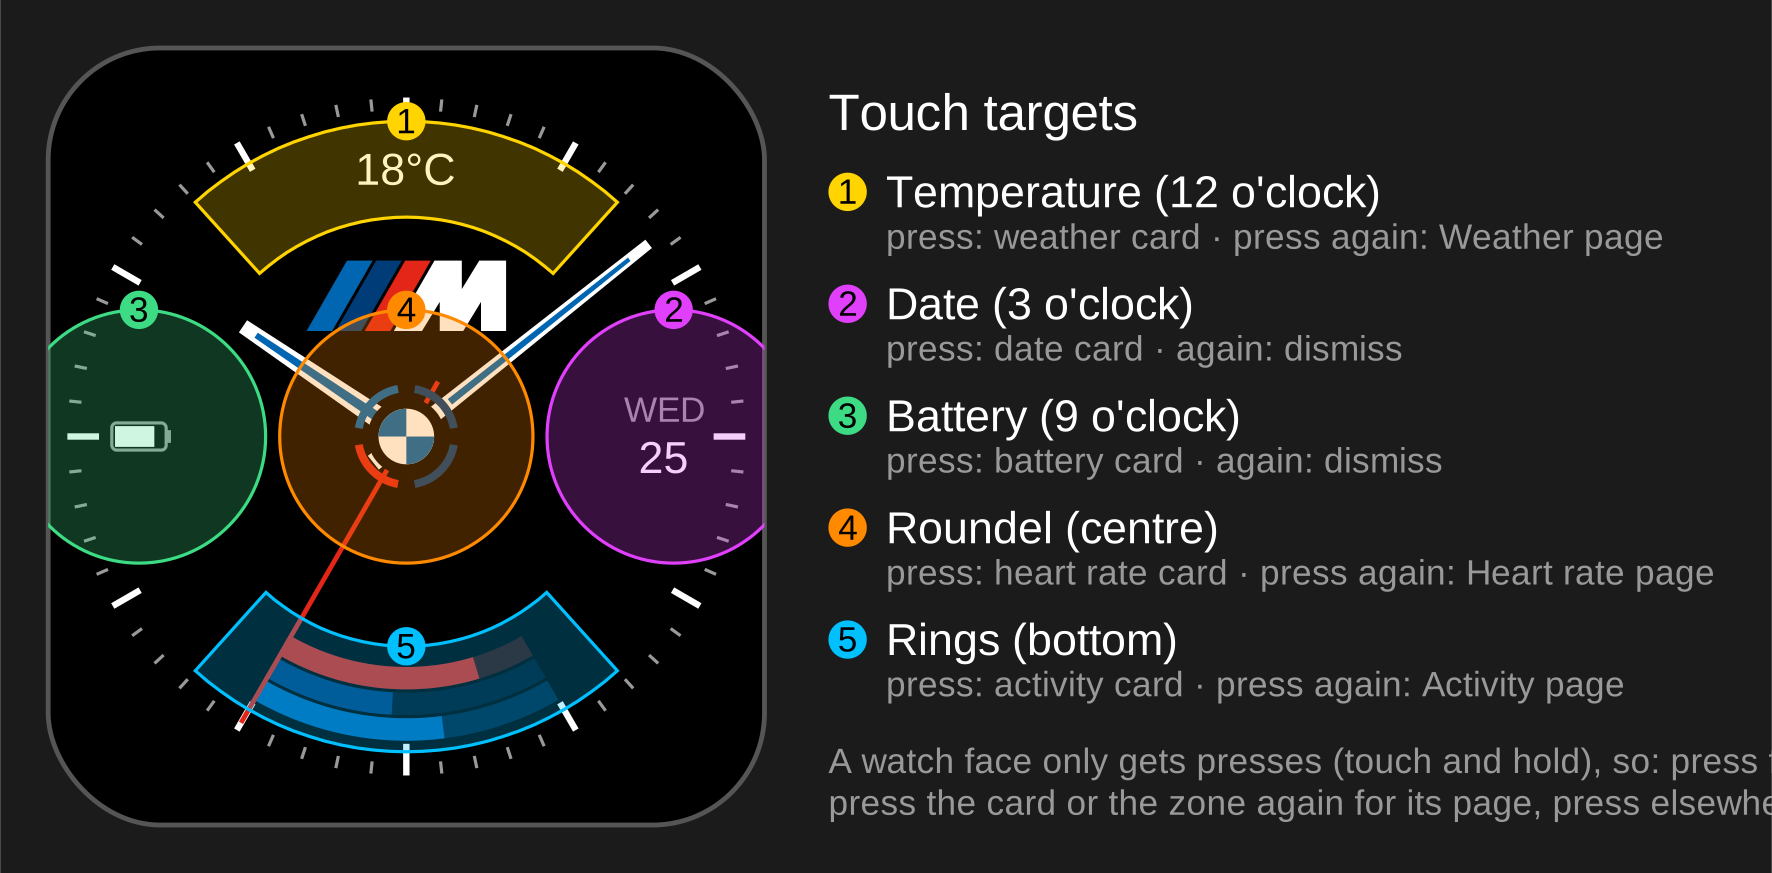
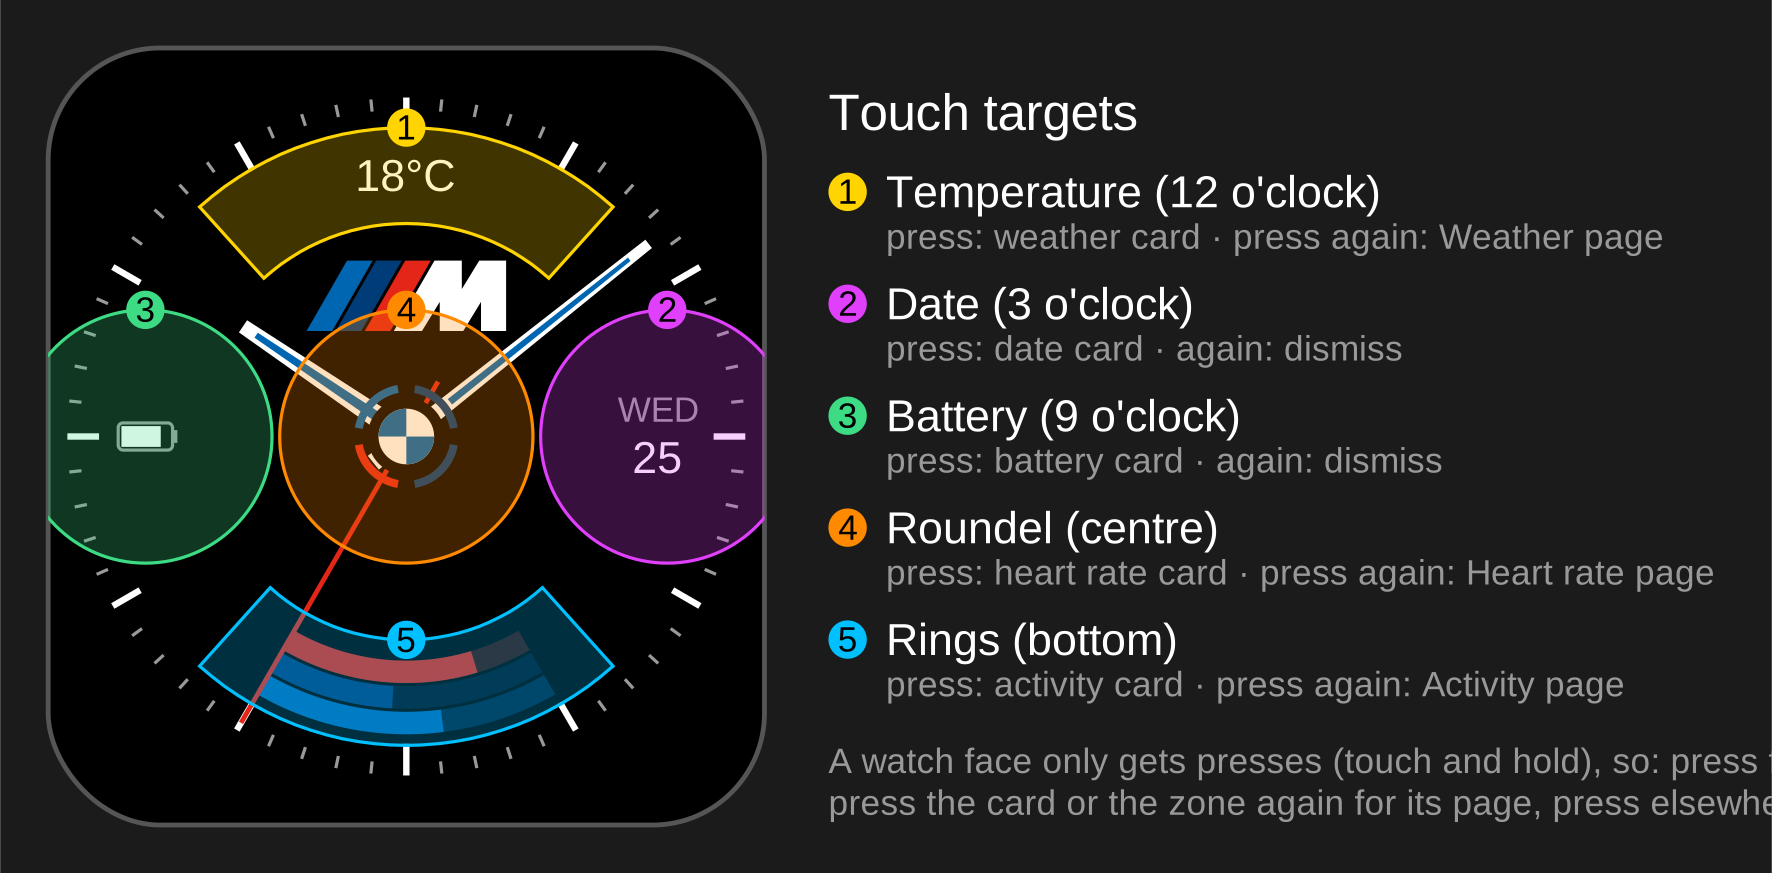
Move the ring band 4 px inward: a 6 px margin to the major ticks (RING_TICK_GAP)
Claude-Session: https://claude.ai/code/session_01CEiR5mX4CwQUtKoZKTxSUA

diff --git a/tools/wireframes.py b/tools/wireframes.py
@@ -54,7 +54,7 @@ WHITE, BLACK = col("WHITE"), col("BLACK")
 GREY = col("GREY")
 CHROME = "#555555"          # the mock watch bezel in the images; not part of the face
 ZONE_COLORS = {1: "#FFD400", 2: "#E040FB", 3: "#3DDC84", 4: "#FF8A00", 5: "#00C0FF"}   # touch targets: yellow, magenta, green, orange, cyan
-GAP, TICK_INSET = num("GAP"), num("TICK_INSET")
+GAP, TICK_INSET, RING_TICK_GAP = num("GAP"), num("TICK_INSET"), num("RING_TICK_GAP")
 TICK_MAJOR, TICK_MINOR = num("TICK_MAJOR"), num("TICK_MINOR")
 MARGIN, ROW_PITCH = num("MARGIN"), num("ROW_PITCH")
 BAR_W, BAR_H, BAR_R = num("BAR_W"), num("BAR_H"), num("BAR_R")
@@ -152,7 +152,7 @@ def screen(s, ox=0, oy=0):
 RING_W = int(R * 0.2 / 99 * 36 * 0.866 + 0.5)          # same rounding as ringWidth()
 PITCH = RING_W + GAP
 TICK_INNER = (R - TICK_INSET) - R * TICK_MAJOR
-RING_OUT = TICK_INNER - GAP - RING_W / 2.0              # ringOuterR()
+RING_OUT = TICK_INNER - RING_TICK_GAP - RING_W / 2.0    # ringOuterR()
 LOGO_STRIPES = [(66, BLUE), (107, NAVY), (148, RED)]    # top-left x, colour
 LOGO_M = [(132, 99), (189, 0), (227.5, 0), (227.5, 40), (252, 0), (290, 0), (290, 99),
           (254.5, 99), (254.5, 58), (229.5, 99), (196.5, 99), (196.5, 58), (171.5, 99)]

diff --git a/README.md b/README.md
@@ -194,11 +194,11 @@ whole face.
   tracks, the sleep band and axes, white, and one grey `999999` for secondary text, glyph
   strokes, chevrons and inactive dots. The cloud strip shades between black and the grey,
   which is a ramp of that one grey, not another colour.
-- **Spacing:** one 2 px gap is used between the badge stripes, between ring bars
-  and between the outer ring and the ticks. Ring bars are as wide as the badge
+- **Spacing:** one 2 px gap is used between the badge stripes and between ring bars;
+  the outer ring sits 6 px inside the major ticks (`RING_TICK_GAP`) so the two never touch. Ring bars are as wide as the badge
   stripes. Detail pages share a 70 px margin, a 32 px row pitch and one bar size.
-- **Fonts:** four roles mapped to Garmin system fonts: label, value, title and
-  hero number.
+- **Fonts:** four roles (label, value, title, hero number), drawn as vector fonts at the pixel
+  sizes `FONT_PX_*` in `Theme.mc` (`Fonts.mc` loads them, falling back to the system fonts).
 
 The touch targets' sizes (the shared radius of the roundel, date and battery circles, the
 temperature and rings arcs) are tokens too, read by both the app and the wireframe
